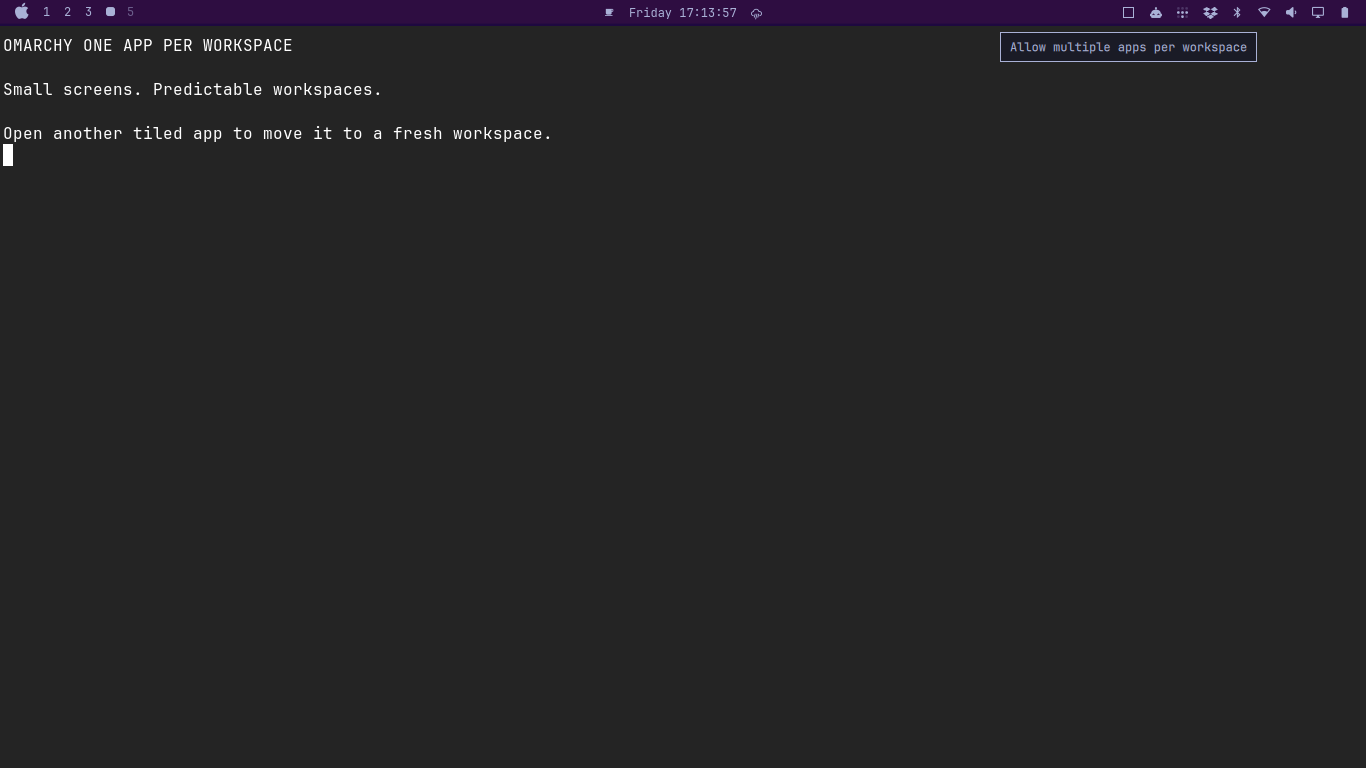
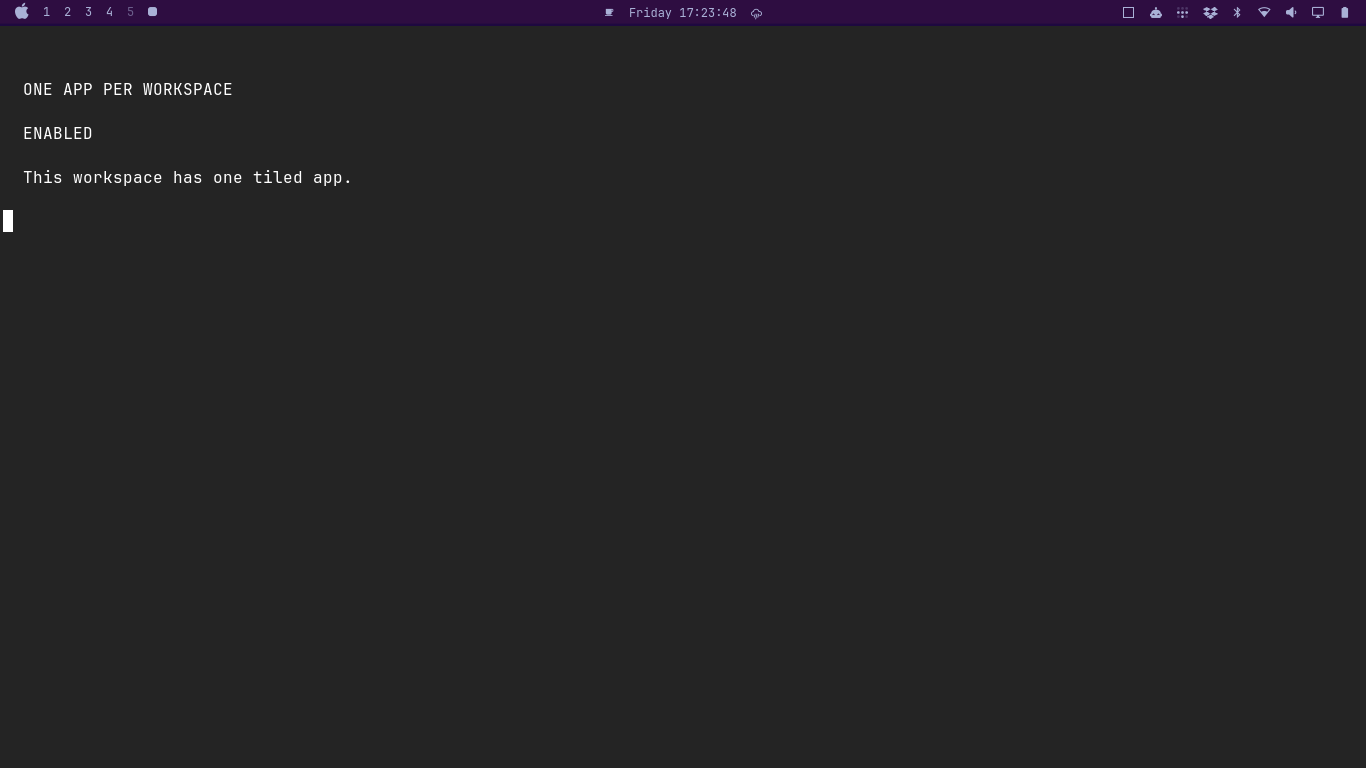
Refresh plugin screenshots

diff --git a/README.md b/README.md
@@ -39,7 +39,7 @@ hotkey shows a short notification.
 
 ## Screenshots
 
-![Disabled state with its action tooltip](screenshots/disabled.png)
+![Disabled state with two tiled apps](screenshots/disabled.png)
 
 ![Toggle notification](screenshots/toggle-notification.png)
 
